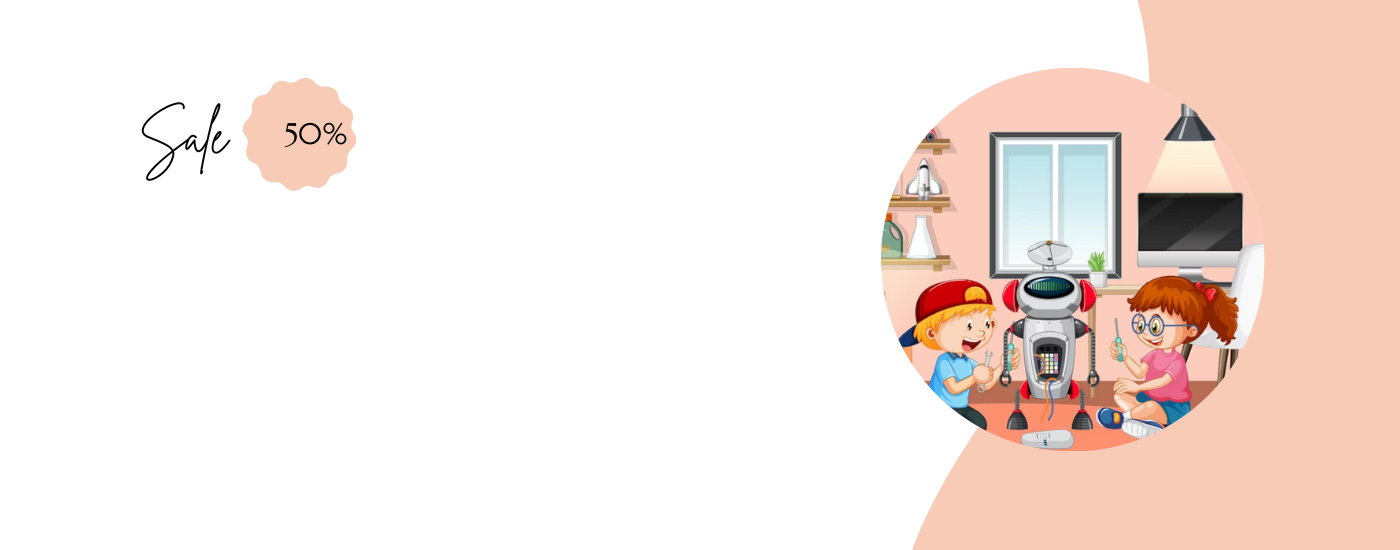
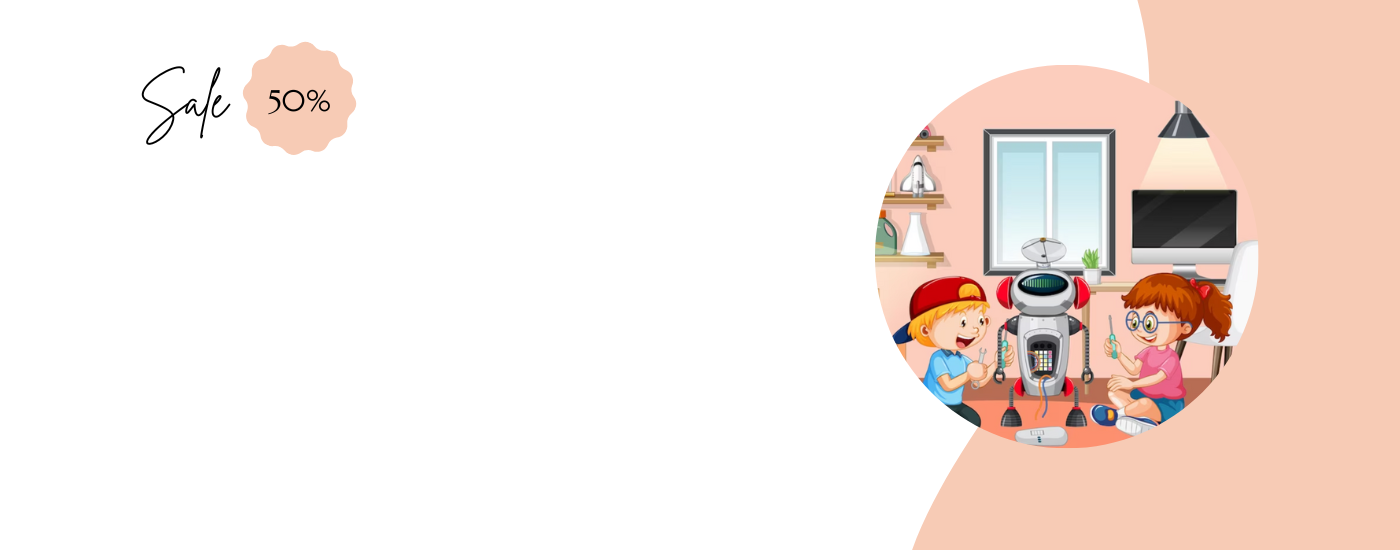
404 page added

diff --git a/src/pages/ErrorPage/ErrorPage.jsx b/src/pages/ErrorPage/ErrorPage.jsx
@@ -1,0 +1,30 @@
+import { FaceFrownIcon } from '@heroicons/react/24/solid'
+import { Link, useRouteError } from 'react-router-dom'
+
+
+
+const ErrorPage = () => {
+    const { error, status } = useRouteError()
+    
+  return (
+    <section className='flex items-center h-screen p-16 bg-gray-100 text-gray-900'>
+      <div className='container flex flex-col items-center justify-center px-5 mx-auto my-8'>
+        <FaceFrownIcon className='w-40 h-40 text-yellow-500' />
+        <div className='max-w-md text-center'>
+          <h2 className='mb-8 font-extrabold text-9xl text-yellow-500'>
+            <span className='sr-only'>Error</span>
+            {status || 404}
+          </h2>
+          <p className='text-2xl font-semibold md:text-3xl text-red-800 mb-8'>
+            {error?.message}
+          </p>
+          <Link to='/' className='btn'>
+            Back to homepage
+          </Link>
+        </div>
+      </div>
+    </section>
+  )
+};
+
+export default ErrorPage;

diff --git a/src/pages/Home/Banner.jsx b/src/pages/Home/Banner.jsx
@@ -2,8 +2,8 @@
 const Banner = () => {
     return (
         <div>
-            <div className="bg-img md:h-[550px] bg-cover bg-center">
-                <div className="md:w-5/6 mx-auto px-3 flex flex-col justify-center items-start md:h-full">
+            <div className="md:w-5/6 mx-auto px-3 bg-img md:h-[550px] bg-cover bg-center">
+                <div className=" flex flex-col justify-center items-start md:h-full">
                     <h1 className="text-4xl md:text-5xl lg:text-5xl font-bold mb-4 mt-16 w-5/6 md:w-1/2">
                     Shop Best Electronic Toys For Your Children
                     

diff --git a/src/pages/Home/Carousel/Carousel.jsx b/src/pages/Home/Carousel/Carousel.jsx
@@ -14,7 +14,7 @@ import { Navigation } from "swiper";
 const Carousel = () => {
   return (
     <div className="w-full md:w-5/6 mx-auto px-3 md:mt-16 mt-10">
-      <h1 className="text-5xl text-center font-semibold">Our Testimonial</h1>
+      <h1 className="md:text-5xl text-4xl text-gray-700 text-center font-semibold">Our Testimonial</h1>
       <Swiper navigation={true} modules={[Navigation]} className="mySwiper md:-mt-10 ">
         <SwiperSlide>
           <div className="text center">

diff --git a/src/pages/SignUp/SignUp.jsx b/src/pages/SignUp/SignUp.jsx
@@ -61,7 +61,7 @@ const SignUp = () => {
                 </div>
 
                 <div className='mb-4'>
-                    <label htmlFor="text" className="block text-gray-700 font-bold mb-2">Your name</label>
+                    <label htmlFor="text" className="block text-gray-700 font-bold mb-2">Your PhotoUrl</label>
                     <div className='relative'>
                     <FaImage className="absolute text-gray-500 left-3 top-2/4 transform -translate-y-2/4" />
 

diff --git a/src/Routes/Router.jsx b/src/Routes/Router.jsx
@@ -5,11 +5,13 @@ import Main from "../Layout/Main";
 import Home from "../pages/Home/Home";
 import Login from "../pages/Login/Login";
 import SignUp from "../pages/SignUp/SignUp";
+import ErrorPage from "../pages/ErrorPage/ErrorPage";
 
 const router = createBrowserRouter([
   {
     path: "/",
     element: <Main></Main>,
+    errorElement: <ErrorPage></ErrorPage>,
     children: [
         {
             path: '/',
